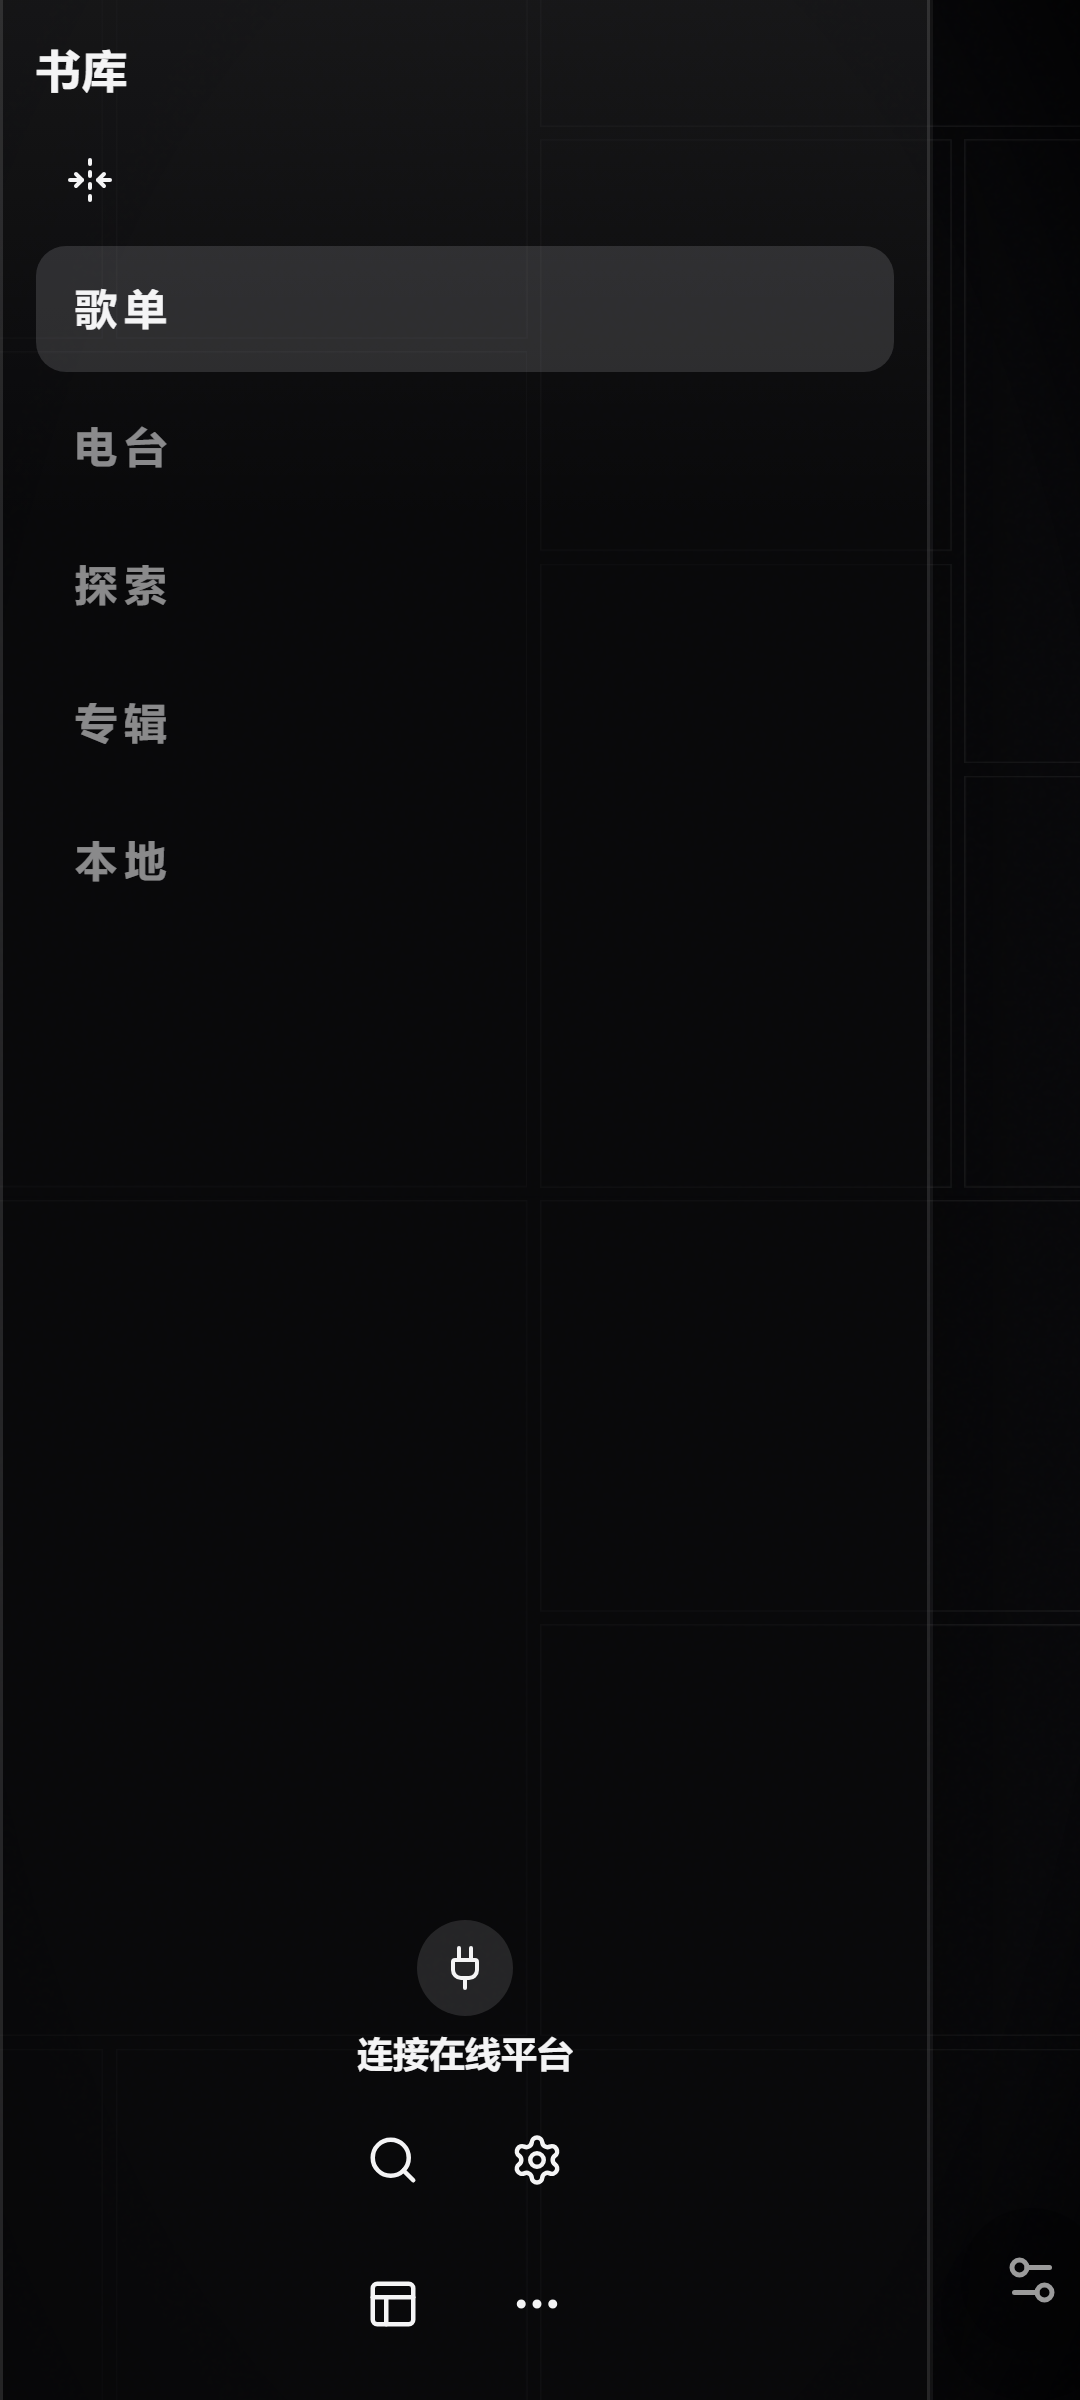
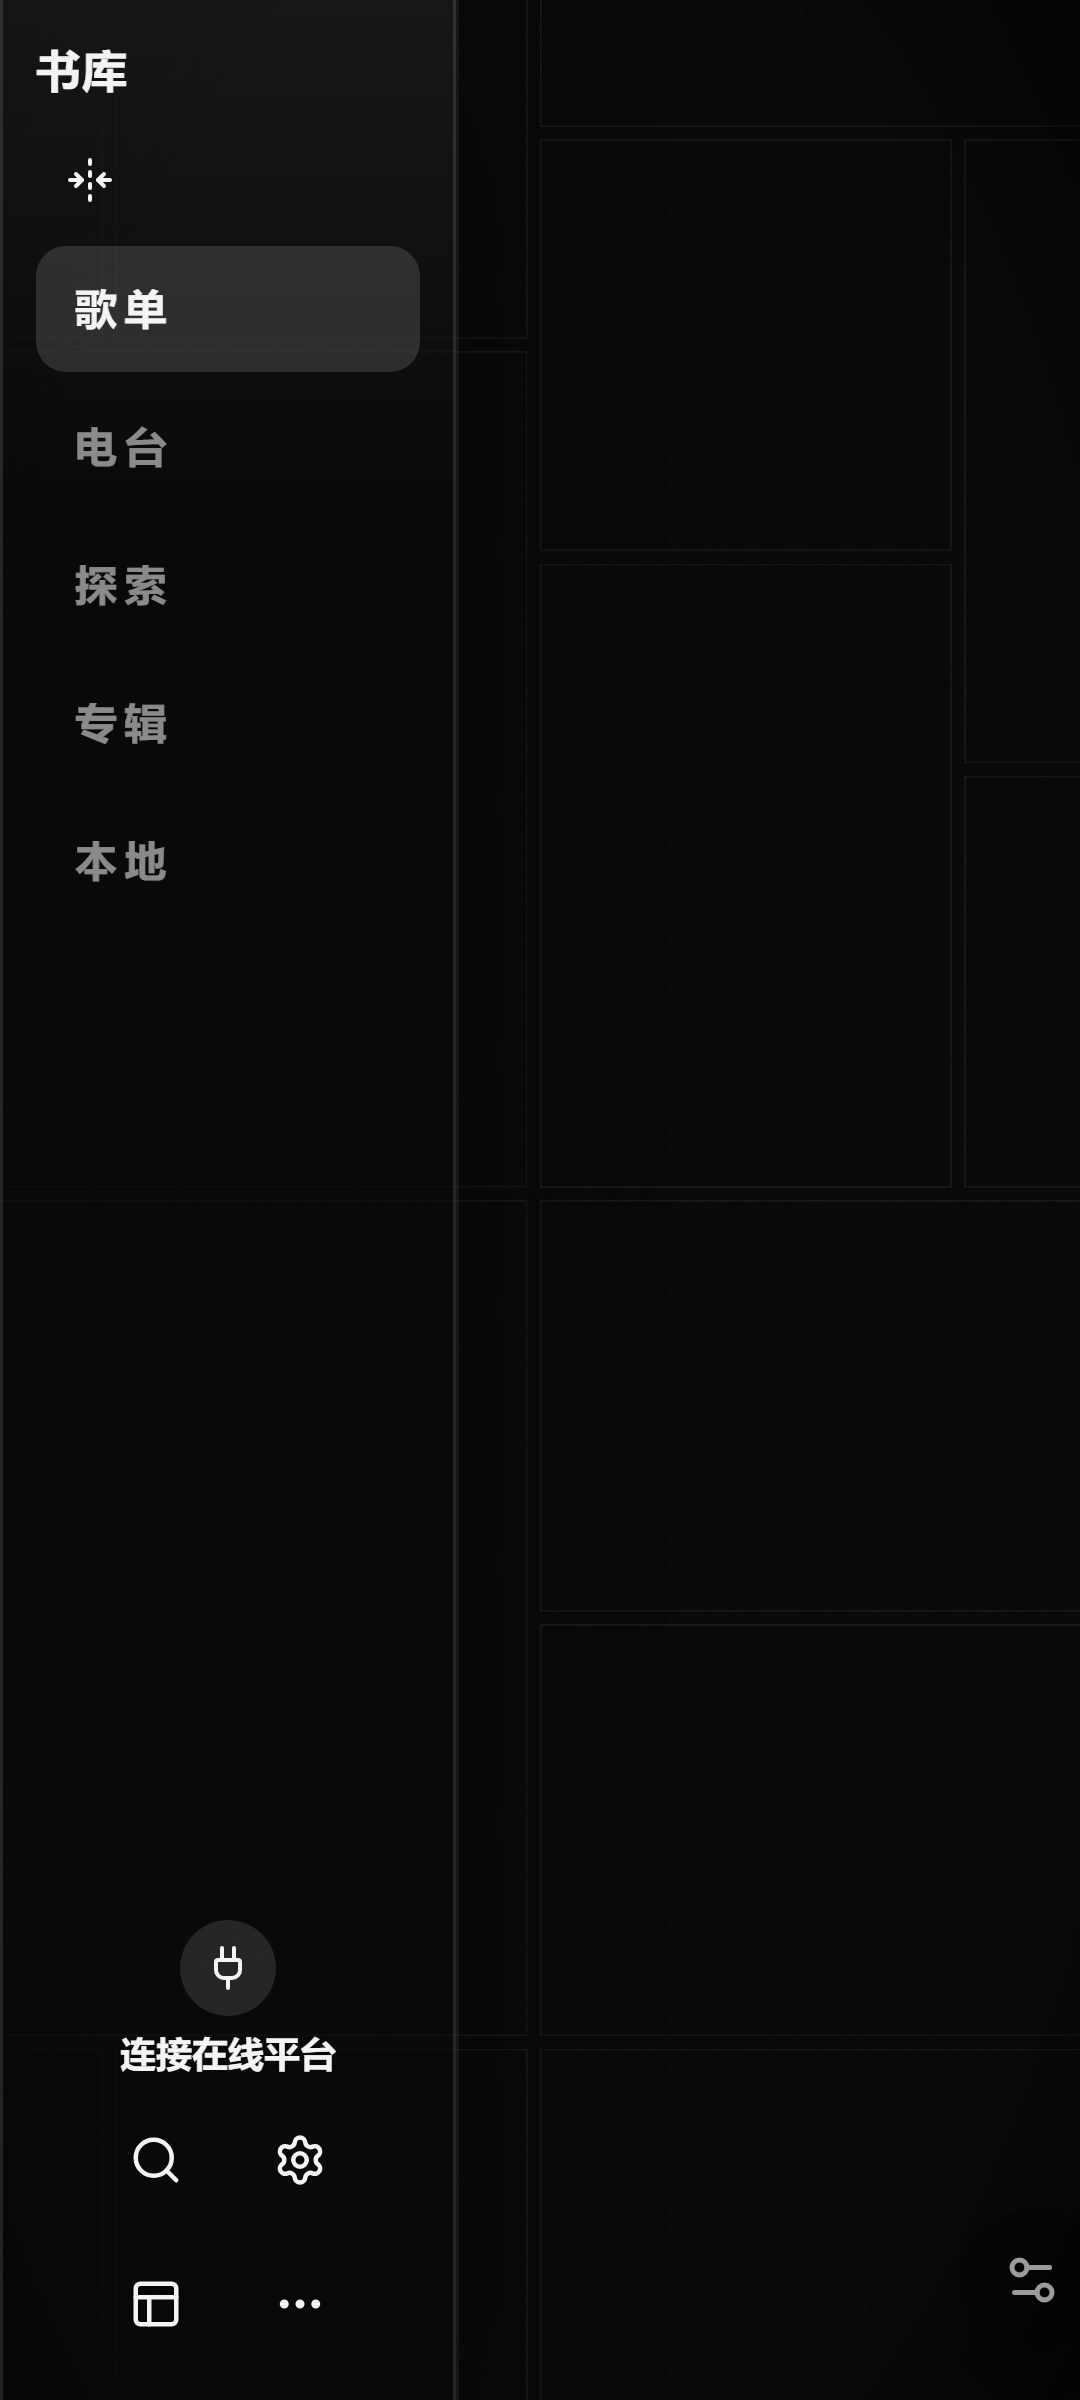
播放条改为播放页专属的封面迷你条，书库面板收窄
- 播放条只在播放页出现；触摸端不再悬停自动展开，常态是只显示封面的迷你圆角矩形
- 点按展开信息、左右滑动切歌、展开后右上角可收起
- 书库面板宽度对齐底部工具列（152px）

diff --git a/src/components/FloatingPlayerControls.tsx b/src/components/FloatingPlayerControls.tsx
@@ -1,7 +1,7 @@
 import React, { useCallback, useEffect, useMemo, useRef, useState } from 'react';
 import { useTranslation } from 'react-i18next';
 import { AnimatePresence, motion } from 'framer-motion';
-import { Play, Pause } from 'lucide-react';
+import { ChevronDown, Music, Pause, Play } from 'lucide-react';
 import { MotionValue } from 'framer-motion';
 import ProgressBar from './ProgressBar';
 import { PlayerState, LyricData, Theme } from '../types';
@@ -57,6 +57,8 @@ export type SlotContextFromApp = Omit<
 
 interface FloatingPlayerControlsProps {
     currentSong: { name: string; } | null;
+    /** 封面地址：常态的迷你播放条只显示它。 */
+    coverUrl?: string | null;
     playerState: PlayerState;
     currentTime: MotionValue<number>;
     lyricCurrentTime?: MotionValue<number>;
@@ -92,6 +94,7 @@ interface FloatingPlayerControlsProps {
 
 const FloatingPlayerControls: React.FC<FloatingPlayerControlsProps> = ({
     currentSong,
+    coverUrl = null,
     playerState,
     currentTime,
     lyricCurrentTime,
@@ -125,6 +128,8 @@ const FloatingPlayerControls: React.FC<FloatingPlayerControlsProps> = ({
     // const isDaylight = theme?.name === 'Daylight Default'; // Deprecated, passed as prop
     const glassBgExpanded = isDaylight ? 'bg-white/60 border border-white/20 shadow-xl' : 'bg-black/40 border border-white/5';
     const glassBgCollapsed = isDaylight ? 'bg-white/40 border border-white/20 shadow-lg hover:bg-white/50' : 'bg-black/20 border border-white/5 hover:bg-black/30';
+    // 迷你条与展开态用的是同一个封面；没有封面时退化成音符图标。
+    const resolvedCoverUrl = coverUrl;
     const trackColor = isDaylight ? 'rgba(0,0,0,0.05)' : 'rgba(255,255,255,0.1)';
     // Button bg logic
     const buttonBg = isDaylight ? { backgroundColor: primaryColor, color: 'var(--bg-color)' } : { backgroundColor: primaryColor, color: 'var(--bg-color)' }; // Keep primary for play button, looks good
@@ -151,8 +156,14 @@ const FloatingPlayerControls: React.FC<FloatingPlayerControlsProps> = ({
     ));
 
     const canAutoExpand = canTogglePlay && duration > 0;
-    // 定位模式强制展开：用户要看到的是最终形态的胶囊，而不是一条细进度条。
-    const showExpanded = isPositioning || isHovered || (canAutoExpand && playerState !== PlayerState.PLAYING && currentView !== 'home');
+    // 手机上播放条默认只是一枚封面迷你条：鼠标悬停不再自动展开，只有点按才展开信息。
+    // 桌面版保留原来的自动展开（暂停时展开），因为那里没有「点一下展开」的触摸习惯。
+    const isTouchShell = typeof document !== 'undefined'
+        && document.documentElement.dataset.foliaShell === 'android';
+    const [miniExpanded, setMiniExpanded] = useState(false);
+    const showExpanded = isPositioning
+        || miniExpanded
+        || (!isTouchShell && (isHovered || (canAutoExpand && playerState !== PlayerState.PLAYING && currentView !== 'home')));
 
     // 上限依赖视口高度，窗口变矮时要跟着收，否则虚线框会画到屏幕外。
     useEffect(() => {
@@ -379,10 +390,22 @@ const FloatingPlayerControls: React.FC<FloatingPlayerControlsProps> = ({
                         onPointerCancel={handlePositionDragEnd}
                         style={{ touchAction: isPositioning ? 'none' : undefined }}
                         className={`backdrop-blur-xl shadow-2xl overflow-hidden relative transition-colors duration-300
-                            ${showExpanded ? 'rounded-3xl' : 'rounded-full'}
+                            ${showExpanded ? 'rounded-3xl' : 'rounded-2xl'}
                             ${isPositioning ? 'cursor-grab active:cursor-grabbing' : 'cursor-pointer'}
-                            ${showExpanded ? `px-4 py-4 ${glassBgExpanded} w-full` : `px-4 py-2 ${glassBgCollapsed} ${COLLAPSED_WIDTH_CLASS}`}`}
+                            ${showExpanded ? `px-4 py-4 ${glassBgExpanded} w-full` : `p-1.5 ${glassBgCollapsed} w-auto`}`}
                     >
+                        {/* 展开后收起：触摸设备上没有「移开鼠标」，需要一个明确的返回迷你条入口。 */}
+                        {showExpanded && !isPositioning && (
+                            <button
+                                type="button"
+                                aria-label={t('player.collapse')}
+                                title={t('player.collapse')}
+                                onClick={() => setMiniExpanded(false)}
+                                className="absolute right-1.5 top-1.5 z-10 grid h-7 w-7 place-items-center rounded-full bg-white/10 text-white/70 transition-colors hover:bg-white/20"
+                            >
+                                <ChevronDown size={16} aria-hidden />
+                            </button>
+                        )}
                         <motion.div
                             layout
                             transition={{ layout: CONTROL_LAYOUT_SPRING }}
@@ -411,14 +434,14 @@ const FloatingPlayerControls: React.FC<FloatingPlayerControlsProps> = ({
                                     slotContext={resolvedSlotContext}
                                 />
                             ) : (
-                                <CollapsedView
-                                    currentTime={currentTime}
-                                    duration={duration}
-                                    onSeek={onSeek}
-                                    primaryColor={primaryColor}
-                                    secondaryColor={secondaryColor}
-                                    trackColor={trackColor}
-                                    controlsDisabled={controlsDisabled}
+                                <MiniView
+                                    coverUrl={resolvedCoverUrl}
+                                    title={currentSong?.name || noTrackText}
+                                    canPrev={Boolean(trackNavigation?.canPrev)}
+                                    canNext={Boolean(trackNavigation?.canNext)}
+                                    onExpand={() => setMiniExpanded(true)}
+                                    onPrev={trackNavigation?.onPrev}
+                                    onNext={trackNavigation?.onNext}
                                 />
                             )}
                         </motion.div>
@@ -464,6 +487,8 @@ const FloatingPlayerControls: React.FC<FloatingPlayerControlsProps> = ({
 // 展开视图组件
 interface ExpandedViewProps {
     currentSong: { name: string; } | null;
+    /** 封面地址：常态的迷你播放条只显示它。 */
+    coverUrl?: string | null;
     playerState: PlayerState;
     currentTime: MotionValue<number>;
     lyricCurrentTime?: MotionValue<number>;
@@ -589,38 +614,81 @@ const ExpandedView: React.FC<ExpandedViewProps> = ({
     );
 };
 
-// 折叠视图组件
-interface CollapsedViewProps {
-    currentTime: MotionValue<number>;
-    duration: number;
-    onSeek: (time: number) => void;
-    primaryColor: string;
-    secondaryColor: string;
-    trackColor?: string;
-    controlsDisabled?: boolean;
+// 折叠视图：播放条常态。手机上一枚只显示封面的迷你圆角矩形——左右滑动切歌，点一下展开信息。
+interface MiniViewProps {
+    coverUrl: string | null;
+    title: string;
+    canPrev: boolean;
+    canNext: boolean;
+    onExpand: () => void;
+    onPrev?: () => void;
+    onNext?: () => void;
 }
 
-const CollapsedView: React.FC<CollapsedViewProps> = ({
-    currentTime,
-    duration,
-    onSeek,
-    primaryColor,
-    secondaryColor,
-    trackColor,
-    controlsDisabled = false,
+const MINI_SWIPE_PX = 36;
+
+const MiniView: React.FC<MiniViewProps> = ({
+    coverUrl,
+    title,
+    canPrev,
+    canNext,
+    onExpand,
+    onPrev,
+    onNext,
 }) => {
+    const startXRef = useRef<number | null>(null);
+    const swipedRef = useRef(false);
+    // 本地歌常常没有封面；链接坏了也退回音符图标，而不是浏览器的破图图标。
+    const [coverFailed, setCoverFailed] = useState(false);
+
     return (
-        <div className="flex items-center w-full justify-center h-8 px-4">
-            <ProgressBar
-                currentTime={currentTime}
-                duration={duration}
-                onSeek={onSeek}
-                primaryColor={primaryColor}
-                secondaryColor={secondaryColor}
-                trackColor={trackColor}
-                disabled={controlsDisabled}
-                collapsed
-            />
+        <div
+            role="button"
+            tabIndex={0}
+            aria-label={title}
+            className="relative flex touch-pan-y select-none items-center justify-center"
+            onPointerDown={event => {
+                startXRef.current = event.clientX;
+                swipedRef.current = false;
+            }}
+            onPointerMove={event => {
+                if (startXRef.current === null || swipedRef.current) return;
+                const dx = event.clientX - startXRef.current;
+                if (Math.abs(dx) < MINI_SWIPE_PX) return;
+                const goNext = dx < 0;
+                if (goNext ? !canNext : !canPrev) return;
+                swipedRef.current = true;
+                if (goNext) onNext?.();
+                else onPrev?.();
+            }}
+            onPointerUp={event => {
+                const start = startXRef.current;
+                startXRef.current = null;
+                if (swipedRef.current || start === null) return;
+                if (Math.abs(event.clientX - start) <= MINI_SWIPE_PX) onExpand();
+            }}
+            onPointerCancel={() => { startXRef.current = null; }}
+            onKeyDown={event => {
+                if (event.key !== 'Enter' && event.key !== ' ') return;
+                event.preventDefault();
+                onExpand();
+            }}
+        >
+            <span className="relative block h-14 w-14 overflow-hidden rounded-2xl bg-black/40 shadow-lg">
+                {coverUrl && !coverFailed ? (
+                    <img
+                        src={coverUrl}
+                        alt=""
+                        draggable={false}
+                        onError={() => setCoverFailed(true)}
+                        className="h-full w-full select-none object-cover"
+                    />
+                ) : (
+                    <span className="grid h-full w-full place-items-center text-zinc-300/70">
+                        <Music size={22} aria-hidden />
+                    </span>
+                )}
+            </span>
         </div>
     );
 };

diff --git a/src/components/app/overlays/AppOverlays.tsx b/src/components/app/overlays/AppOverlays.tsx
@@ -6,7 +6,6 @@ import MemoryMonitorWindow from '../../debug/MemoryMonitorWindow';
 import NowPlayingToast from './NowPlayingToast';
 import type { AppOverlaysModel } from './buildAppOverlaysModel';
 import { countRender } from '../../../dev/renderCount';
-import { useLatticeControlsStore } from '../../../stores/useLatticeControlsStore';
 
 // Centralized app-level overlay renderer so App.tsx does not mount leaf overlays directly.
 type AppOverlaysProps = {
@@ -15,7 +14,6 @@ type AppOverlaysProps = {
 
 const AppOverlays: React.FC<AppOverlaysProps> = ({ model }) => {
     countRender('AppOverlays');
-    const isCurrentSongPosterVisible = useLatticeControlsStore(state => state.isCurrentSongPosterVisible);
     const {
         searchOverlay,
         debugOverlay,
@@ -32,8 +30,9 @@ const AppOverlays: React.FC<AppOverlaysProps> = ({ model }) => {
 
             {memoryMonitor && <MemoryMonitorWindow {...memoryMonitor} />}
 
+            {/* 播放条只在播放页出现：资料库与拼贴页自己就有控制，浮层会压住它们的按钮。 */}
             {floatingControls
-                && (floatingControls.currentView !== 'lattice' || !isCurrentSongPosterVisible)
+                && floatingControls.currentView === 'player'
                 && <FloatingPlayerControls {...floatingControls} />}
 
             {nowPlayingToast && <NowPlayingToast {...nowPlayingToast} />}

diff --git a/src/library/suites/bravais/BravaisStage.tsx b/src/library/suites/bravais/BravaisStage.tsx
@@ -11,6 +11,7 @@ import {
     isHorizontalSeamAnchor,
     isPinnedSeamAnchor,
     PINNED_SEAM_BAR_PX,
+    PINNED_SEAM_STRIP_PX,
 } from '../../../utils/libraryWallSeamAnchor';
 import type { LibrarySuiteStageProps } from '../../core/suite/suite.contract';
 import { BRAVAIS_METRICS, BRAVAIS_OVERSCAN, BRAVAIS_SEAM_ACRYLIC_BLUR } from './bravaisConstants';
@@ -259,9 +260,8 @@ const BravaisStage: React.FC<LibrarySuiteStageProps> = ({
         }
         const horizontal = isHorizontalSeamAnchor(seamAnchor);
         // 竖条按视口比例取宽：360px 的手机上给到 ~310px（够放整行页签），桌面上封顶 340px。
-        const width = horizontal
-            ? view.width
-            : Math.round(Math.min(340, Math.max(232, view.width * 0.86)));
+        // 竖条宽度对齐底部工具列：窄条，不占半个屏幕。
+        const width = horizontal ? view.width : PINNED_SEAM_STRIP_PX;
         const height = horizontal ? PINNED_SEAM_BAR_PX : view.height;
         const x = seamAnchor === 'right' ? view.width - width : 0;
         const y = seamAnchor === 'bottom' ? view.height - height : 0;

diff --git a/src/services/mobileShell/mobileShell.css b/src/services/mobileShell/mobileShell.css
@@ -22,8 +22,10 @@ html[data-folia-shell='android'] {
 
     /* The floating capsule is 80% wide below `md`. At 360 CSS px that leaves a ~290px progress bar
      * to both seek and read the time on - so on a phone it takes the width it can get. */
+    /* The resting state is a cover-only mini pill: it must shrink to its content, not fill the row.
+     * The expanded state keeps the full width it asks for itself. */
     html[data-folia-shell='android'] [data-ponder='player-bar'] {
-        width: min(100%, 100%);
+        width: auto;
     }
 
     /* The expanded bar sits over the wall, and its glass is translucent enough that the track card

diff --git a/src/utils/libraryWallSeamAnchor.ts b/src/utils/libraryWallSeamAnchor.ts
@@ -37,6 +37,6 @@ export const isHorizontalSeamAnchor = (anchor: LibraryWallSeamAnchor): boolean =
     anchor === 'top' || anchor === 'bottom'
 );
 
-/** Height of the horizontal bar, and the vertical strip's preferred width. */
+/** Height of the horizontal bar, and the vertical strip's width (the bottom tool column's). */
 export const PINNED_SEAM_BAR_PX = 72;
-export const PINNED_SEAM_STRIP_PX = 420;
+export const PINNED_SEAM_STRIP_PX = 152;

diff --git a/src/components/app/overlays/buildAppOverlaysModel.ts b/src/components/app/overlays/buildAppOverlaysModel.ts
@@ -255,6 +255,7 @@ export const buildAppOverlaysModel = ({
     floatingControls: currentSong
         ? {
             currentSong,
+            coverUrl: coverUrl || null,
             playerState,
             currentTime,
             lyricCurrentTime,

diff --git a/src/i18n/locales/zh-CN.ts b/src/i18n/locales/zh-CN.ts
@@ -3419,6 +3419,7 @@ export default {
   "player": {
     "play": "播放",
     "pause": "暂停",
+    "collapse": "收起",
     "like": "收藏",
     "unlike": "取消收藏",
     "loopOff": "关闭循环",

diff --git a/src/i18n/locales/in.ts b/src/i18n/locales/in.ts
@@ -3411,6 +3411,7 @@ export default {
   "player": {
     "play": "Putar",
     "pause": "Jeda",
+    "collapse": "Ciutkan",
     "like": "Suka",
     "unlike": "Batal Suka",
     "loopOff": "Ulangi Mati",

diff --git a/src/i18n/locales/en.ts b/src/i18n/locales/en.ts
@@ -3419,6 +3419,7 @@ export default {
   "player": {
     "play": "Play",
     "pause": "Pause",
+    "collapse": "Collapse",
     "like": "Like",
     "unlike": "Unlike",
     "loopOff": "Loop off",
